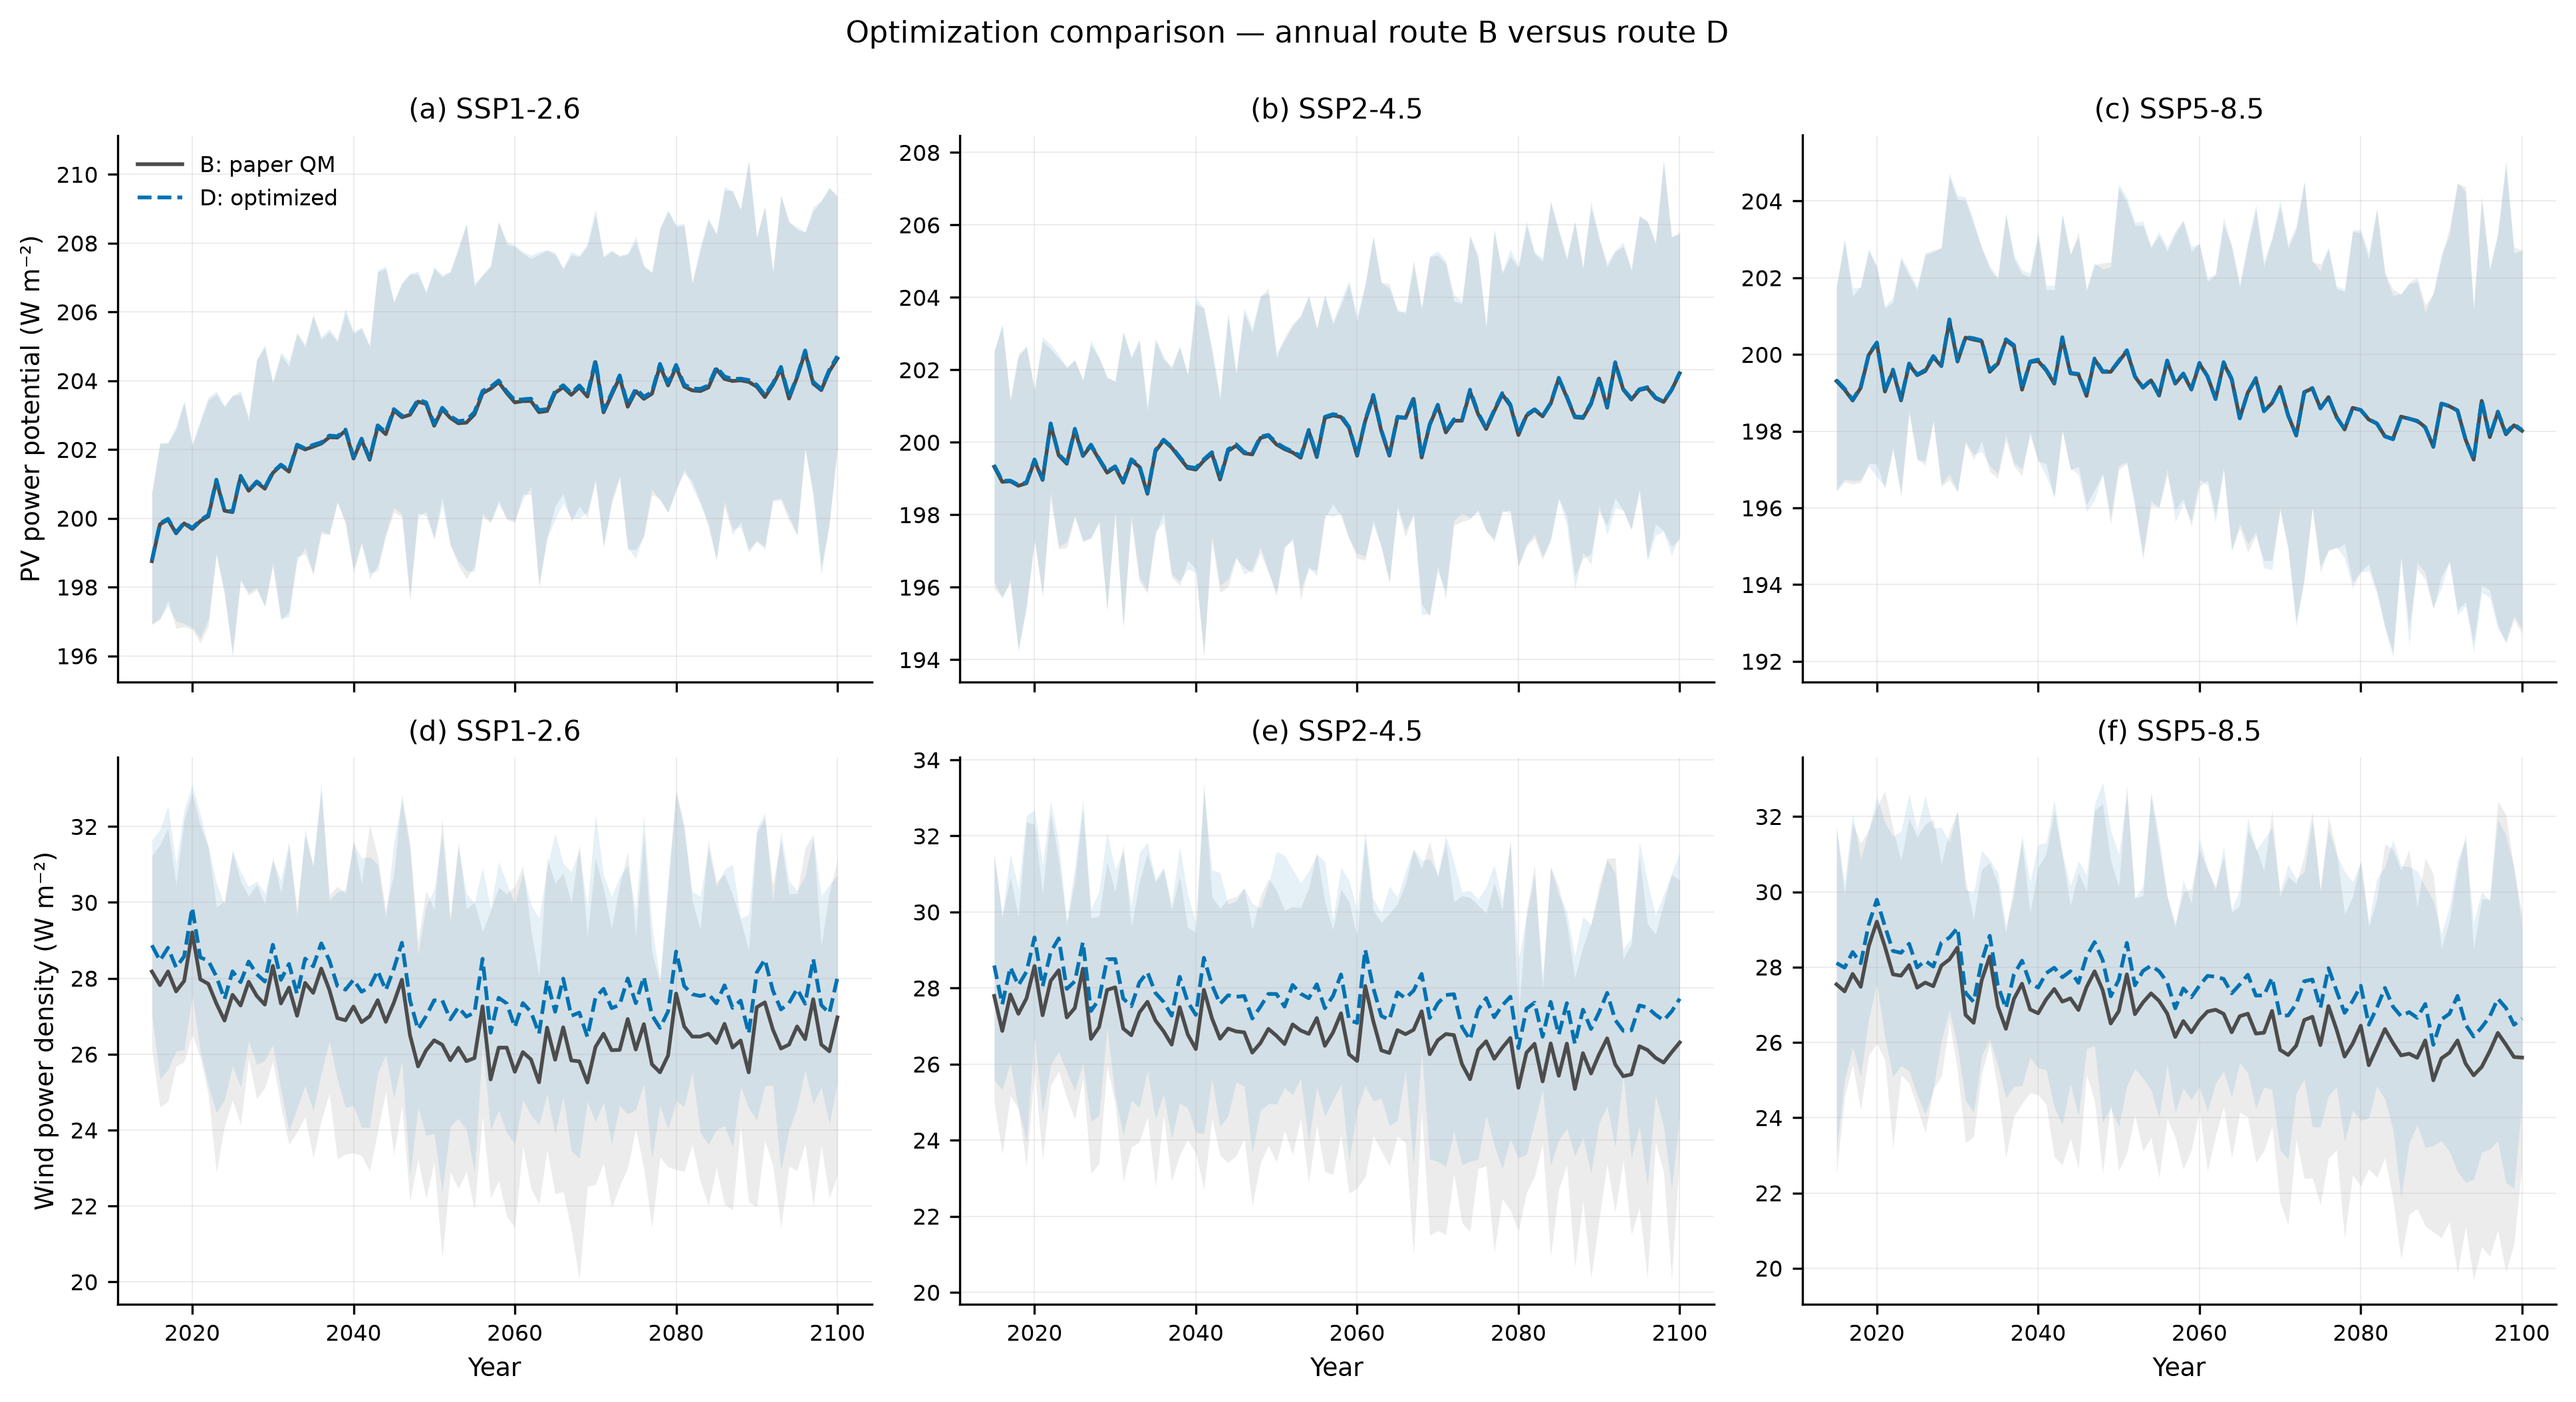
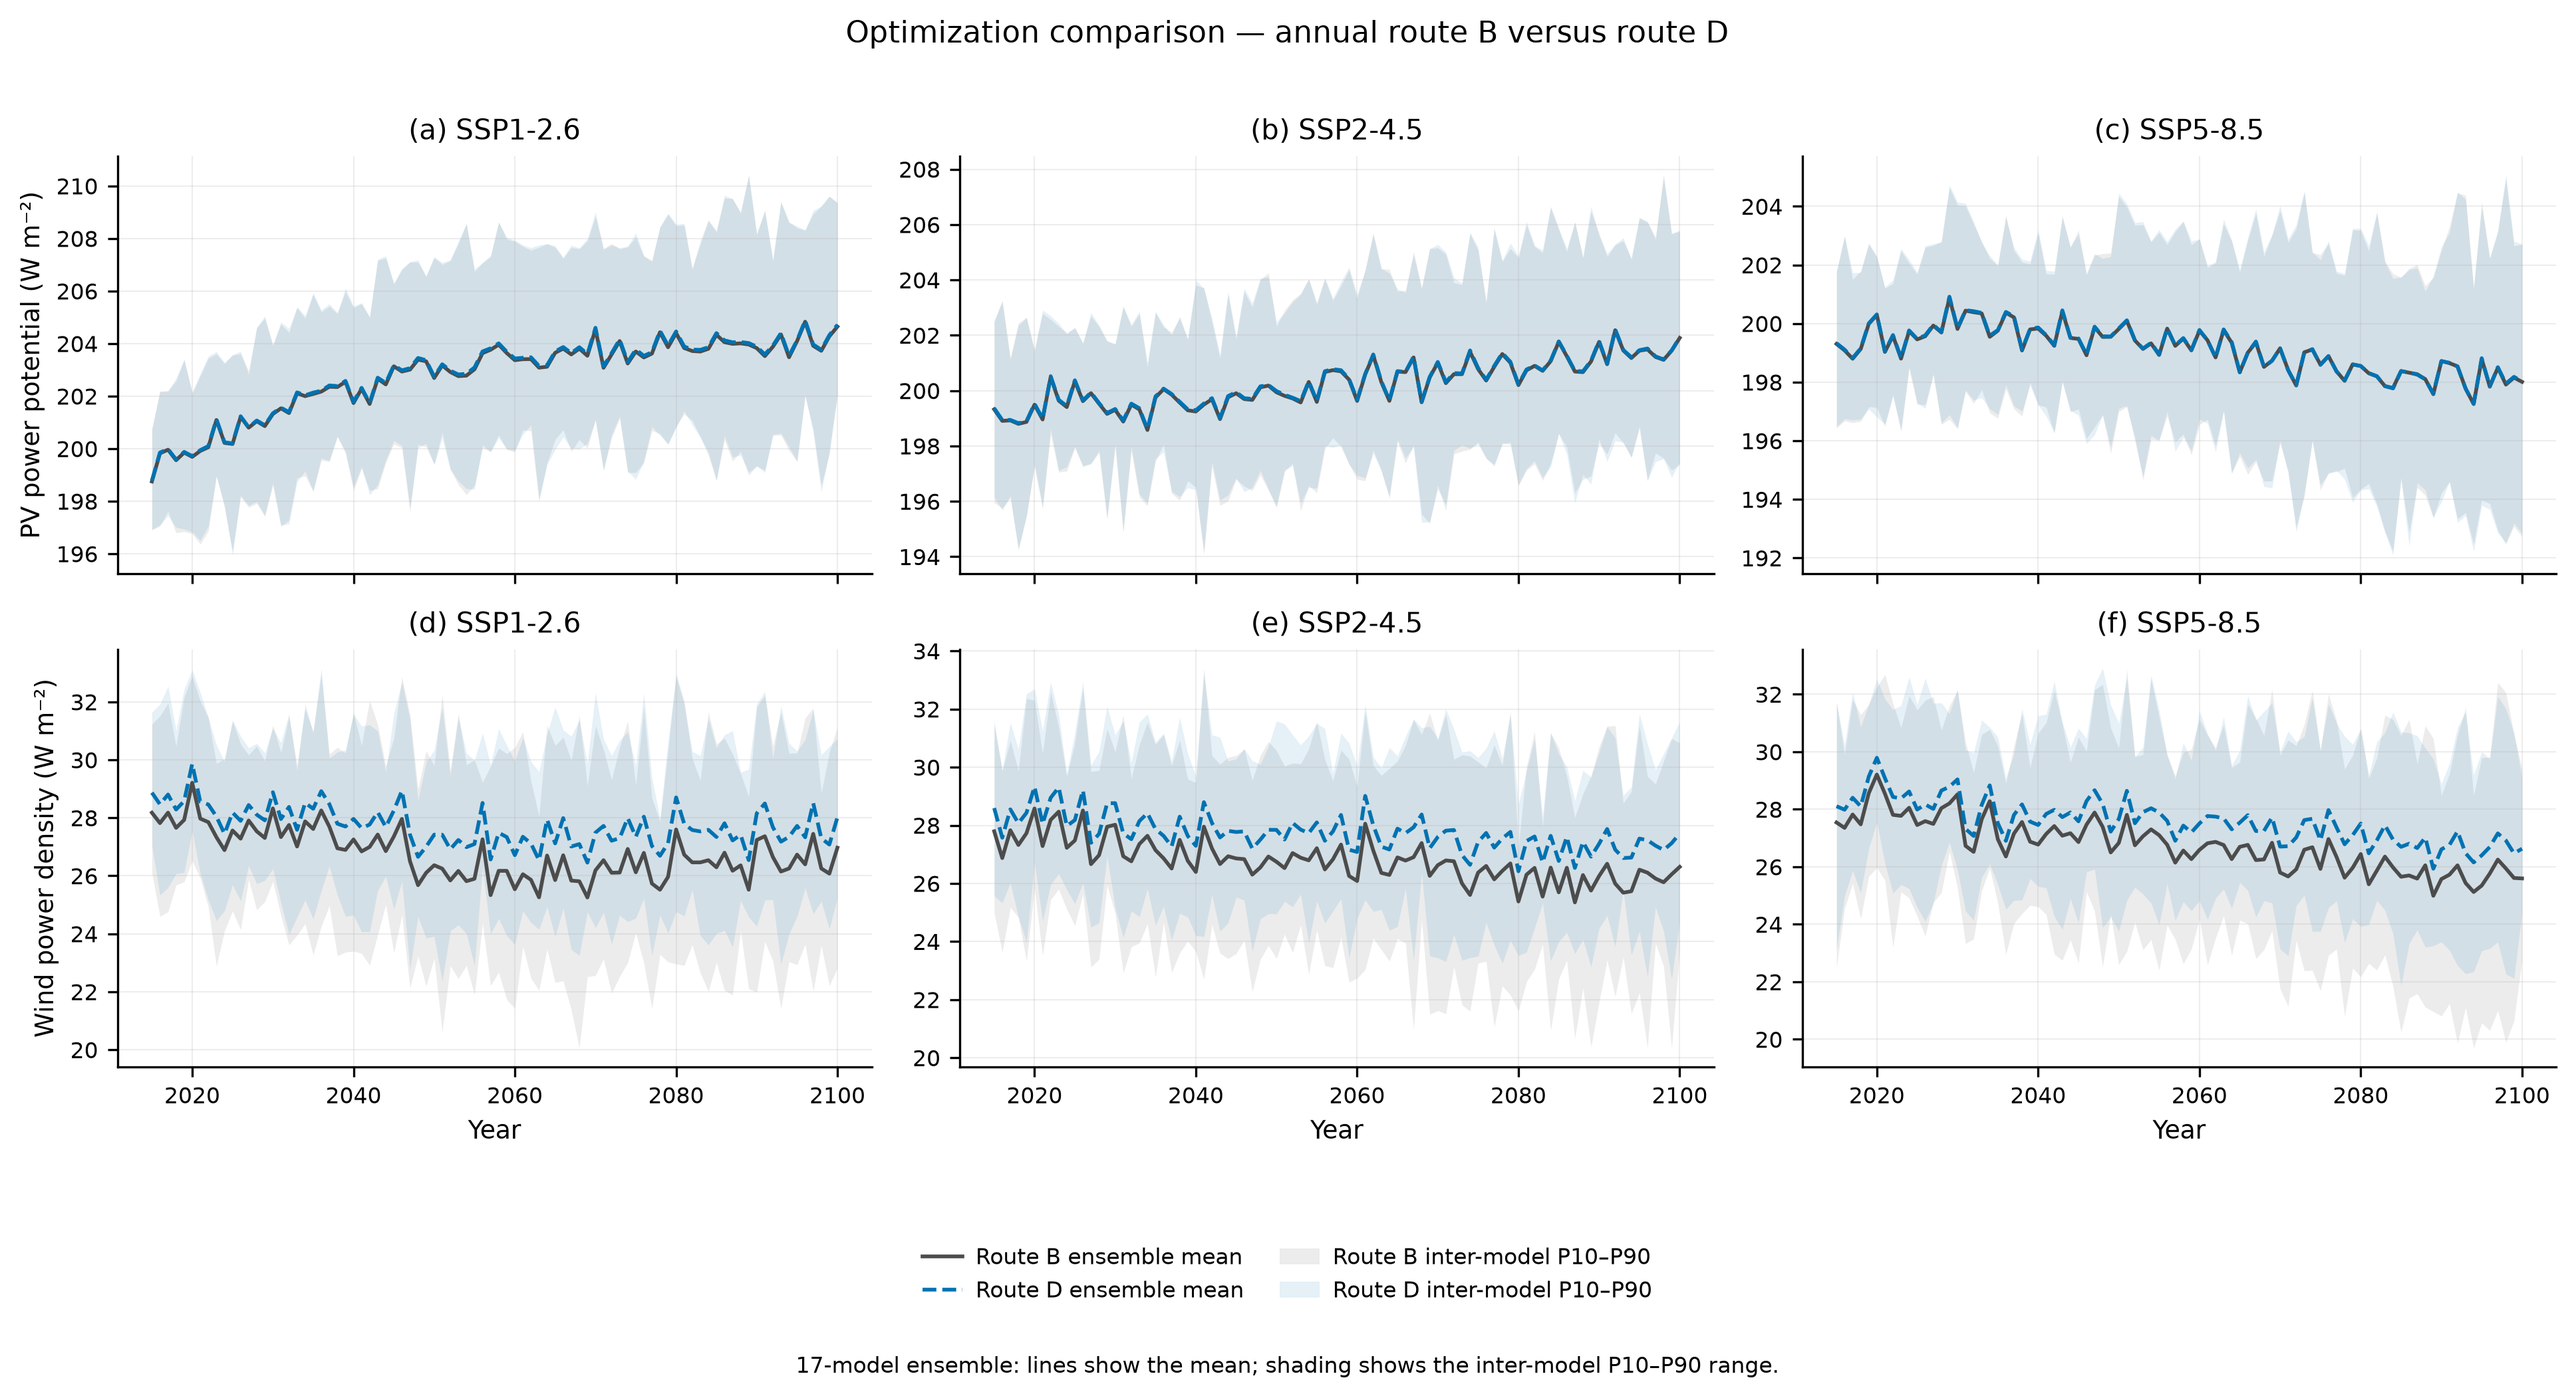
Clarify ensemble spread in optimization figure

diff --git a/scripts/06_plotting/plot_final_figures.py b/scripts/06_plotting/plot_final_figures.py
@@ -56,6 +56,7 @@ try:
     import matplotlib.pyplot as plt
     from matplotlib.colors import BoundaryNorm, ListedColormap, TwoSlopeNorm
     from matplotlib.lines import Line2D
+    from matplotlib.patches import Patch
 except ImportError as error:  # pragma: no cover
     raise RuntimeError(
         "matplotlib is required. Install it in the pvwind environment."
@@ -814,7 +815,6 @@ def plot_annual_B_D(
                     color=METHOD_COLORS[method],
                     linewidth=1.35,
                     linestyle="-" if method == "paper_qm" else "--",
-                    label=METHOD_LABELS[method],
                 )
             axis.set_title(f"{panel_letter(row * 3 + column)} {SCENARIO_LABELS[scenario]}")
             axis.grid(alpha=0.22, linewidth=0.5)
@@ -822,9 +822,54 @@ def plot_annual_B_D(
                 axis.set_ylabel(VARIABLE_LABELS[variable])
             if row == 1:
                 axis.set_xlabel("Year")
-    axes[0, 0].legend(frameon=False, loc="best")
+    legend_handles = [
+        Line2D(
+            [0],
+            [0],
+            color=METHOD_COLORS["paper_qm"],
+            linewidth=1.35,
+            linestyle="-",
+            label="Route B ensemble mean",
+        ),
+        Line2D(
+            [0],
+            [0],
+            color=METHOD_COLORS["optimized"],
+            linewidth=1.35,
+            linestyle="--",
+            label="Route D ensemble mean",
+        ),
+        Patch(
+            facecolor=METHOD_COLORS["paper_qm"],
+            alpha=0.10,
+            label="Route B inter-model P10–P90",
+        ),
+        Patch(
+            facecolor=METHOD_COLORS["optimized"],
+            alpha=0.10,
+            label="Route D inter-model P10–P90",
+        ),
+    ]
     figure.suptitle("Optimization comparison — annual route B versus route D", y=0.995)
-    figure.tight_layout()
+    figure.tight_layout(rect=[0.0, 0.17, 1.0, 0.985])
+    figure.legend(
+        handles=legend_handles,
+        ncol=2,
+        loc="upper center",
+        bbox_to_anchor=(0.5, 0.13),
+        frameon=False,
+        columnspacing=1.6,
+        handlelength=1.8,
+        handletextpad=0.6,
+    )
+    figure.text(
+        0.5,
+        0.03,
+        "17-model ensemble: lines show the mean; shading shows the inter-model P10–P90 range.",
+        ha="center",
+        va="center",
+        fontsize=8,
+    )
     save_figure(
         figure,
         output / "Opt01_annual_energy_B_vs_D",

diff --git a/README.md b/README.md
@@ -163,7 +163,7 @@ Four representative figures from the full set of 14:
 
 ![Annual energy, Route D vs. Route B](results/figures/optimization/Opt01_annual_energy_B_vs_D.png)
 
-*Annual energy: optimized Route D vs. baseline Route B.*
+*Annual PV potential and wind power density under routes B and D. Lines show the equal-weight 17-model ensemble mean; shaded bands show the inter-model P10–P90 range.*
 
 ## 10. Current validation status
 
